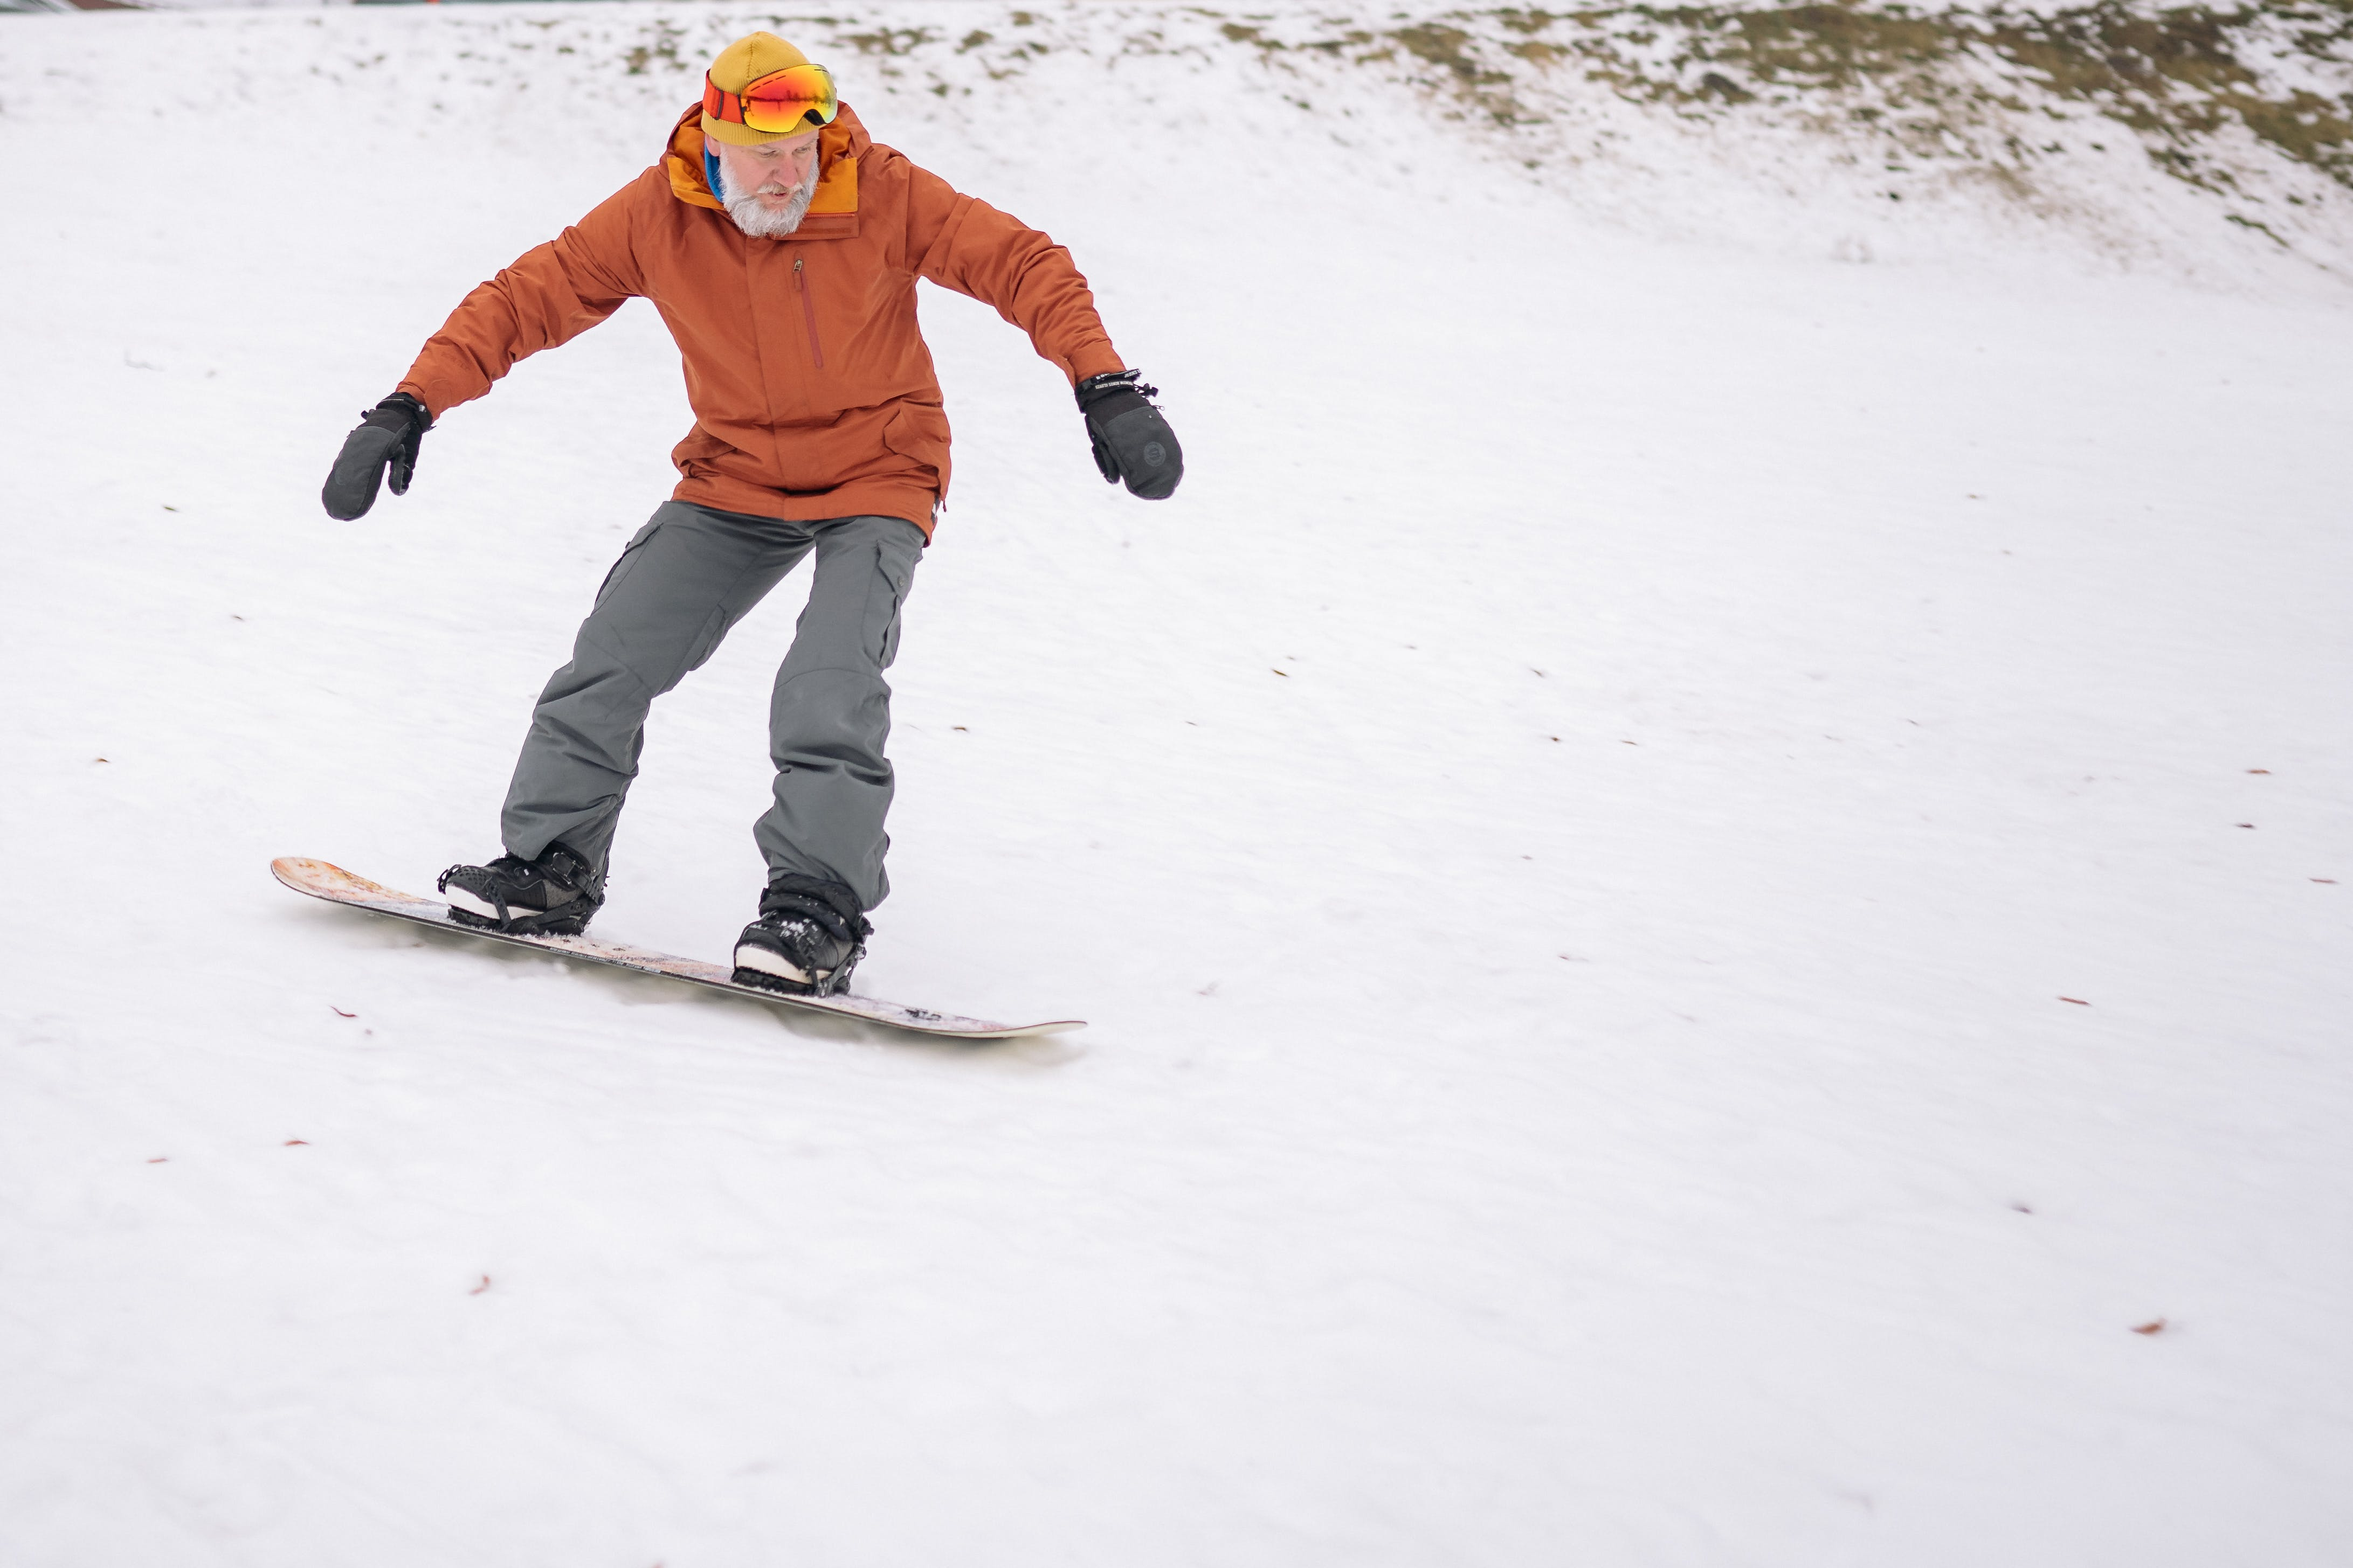
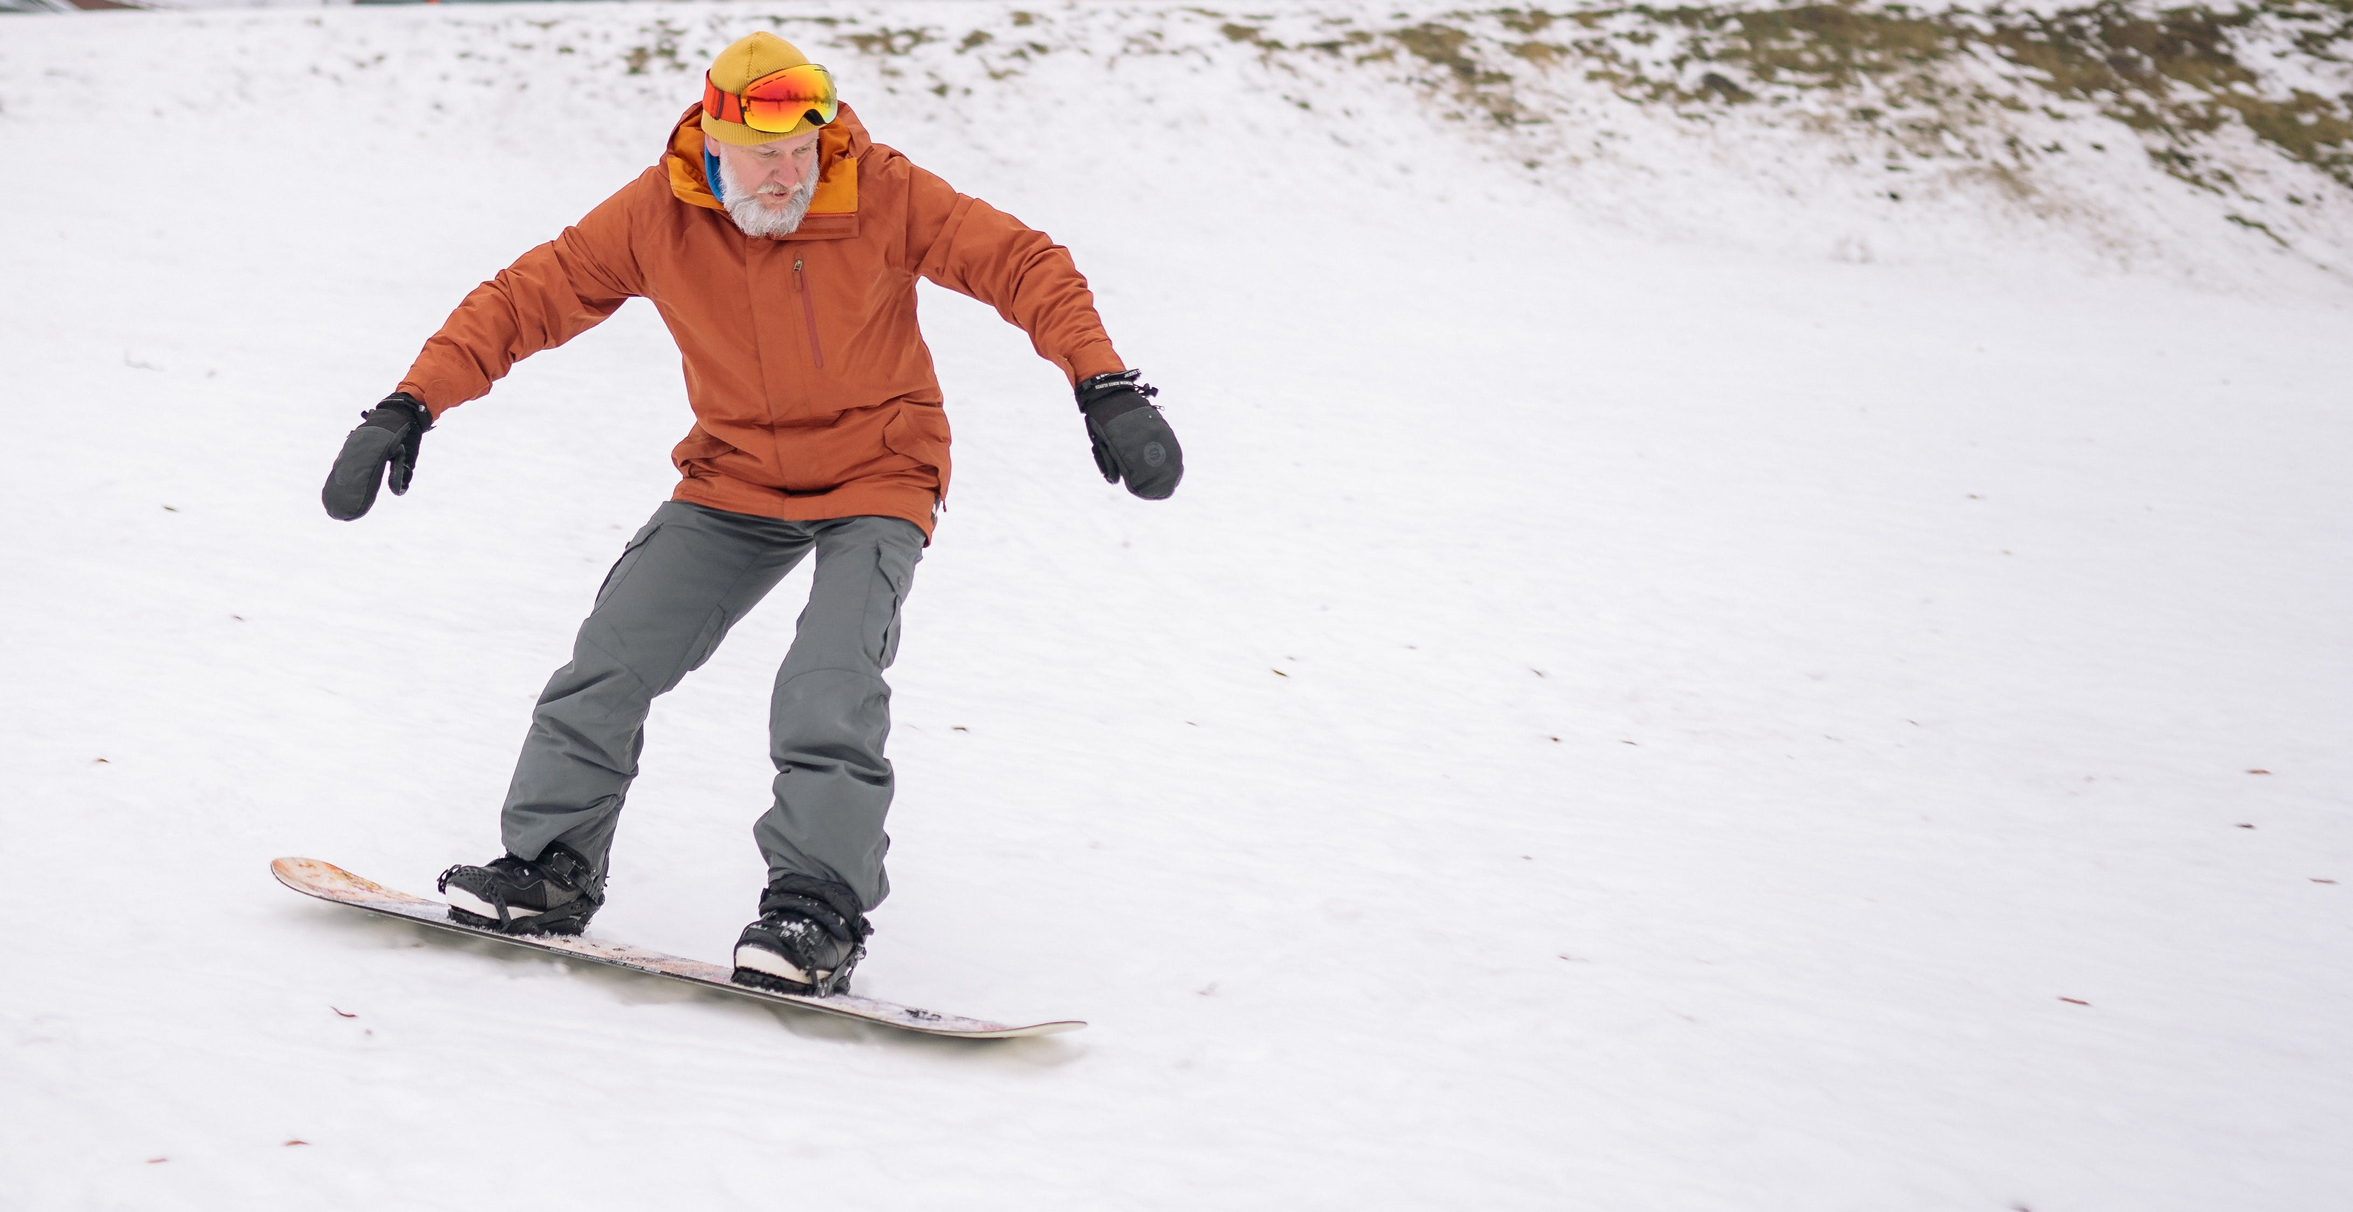
Instructors page done (no animations yet)

diff --git a/Instructors.html b/Instructors.html
@@ -1,0 +1,129 @@
+<!DOCTYPE html>
+<html lang="en">
+
+<head>
+    <meta charset="UTF-8">
+    <meta name="viewport" content="width=device-width, initial-scale=1.0">
+    <title>ChillWave&copy;</title>
+    <link href="https://api.fontshare.com/v2/css?f[]=satoshi@700,301,300,901,400&f[]=clash-display@700&display=swap"
+        rel="stylesheet">
+    <link rel="stylesheet" href="styles/style.css">
+</head>
+
+<body id="instructor-body">
+    <div class="navbar-instructor">
+        <div class="logo-instructor">
+            <a href="index.html">ChillWave Boarding</a>
+        </div>
+        <div class="nav-list-instructor">
+            <a href="services.html">Services</a>
+            <a href="Instructors.html">Instructors</a>
+            <a href="/">About</a>
+        </div>
+        <div class="contact-instructor">
+            <button><a href="/">Contact Us</a></button>
+        </div>
+    </div>
+    <div class="services-header-instructor">
+        <div class="services-left-header-instructor">
+            <h1>Instructors</h1>
+        </div>
+        <div class="services-right-header-instructor">
+            <p>I've got your interior design needs covered. Whether it's a single room or a full-scale makeover, let's
+                make your space
+                shine.</p>
+        </div>
+    </div>
+    <div class="services-header-pic">
+        <img src="assets/youngguy-crusie.jpg" alt="">
+    </div>
+    <div class="instructor-details-container">
+        <div class="instructor-details-bio">
+            <h4>Meet <span>Brandon</span>, a 28-year-old snowboarding master with over a decade of
+                freestyle and instructing
+                expertise. Get ready
+                for an unforgettable ride as Brandon shares his passion and skills, making every moment on the slopes a
+                thrilling
+                adventure.
+            </h4>
+        </div>
+    </div>
+    <div class="services-header-pic">
+        <img src="assets/oldguy-snowboarding.jpg" alt="">
+    </div>
+    <div class="instructor-details-container">
+        <div class="instructor-details-bio">
+            <h4>Introducting <span>Russell</span>, a legendary figure in the snowboarding world. At 55, this past
+                Olympic snowboarder brings
+                a wealth of
+                experience and expertise to the slopes. With a career steeped in triumphs and a passion for the sport,
+                Russell is not
+                just an instructor; he's a living legend ready to guide you through the exhilarating world of
+                snowboarding. Get ready to
+                carve your own path under the mentorship of a true snowboarding icon.
+            </h4>
+        </div>
+    </div>
+    <div class="services-header-pic">
+        <img src="assets/girl-gazing.jpg" alt="">
+    </div>
+    <div class="instructor-details-container">
+        <div class="instructor-details-bio">
+            <h4>Allow us to present <span>Emma</span>, a 22-year-old snowboarding sensation with a passion for freestyle
+                and teaching. With a decade
+                of experience
+                under her belt, Emma is your go-to instructor for an exciting ride on the slopes. Join her for a
+                thrilling adventure,
+                where she'll share her expertise and make every snowboarding moment unforgettable.
+            </h4>
+        </div>
+    </div>
+    <div class="footer-container-instructor">
+        <div class="footer-header-instructor">
+            <h1>ChillWave</h1>
+        </div>
+        <div class="footer-second-container-instructor">
+            <div class="footer-left-container-instructor">
+                <div class="sub-menu-left-instructor">
+                    <h4>Menu</h4>
+                    <a href="/">Services</a>
+                    <a href="/">Lessons</a>
+                    <a href="/">About</a>
+                    <a href="/">Contact</a>
+                </div>
+                <div class="sub-menu-right-instructor">
+                    <h4>Social</h4>
+                    <a href="/">Instagram</a>
+                    <a href="/">Facebook</a>
+                    <a href="/">LinkedIn</a>
+                </div>
+            </div>
+            <div class="footer-right-container-instructor">
+                <h4>Let's Stay Connected</h4>
+                <p>Reach out for a lesson or just to say hello!</p>
+                <form action="/">
+                    <div>
+                        <div>
+                            <label for="email">Email *</label>
+                        </div>
+                        <div>
+                            <input type="email" id="email" name="email">
+                        </div>
+                    </div>
+                    <div>
+                        <div>
+                            <label for="message">Message *</label>
+                        </div>
+                        <div>
+                            <textarea id="message" name="message" rows="3"></textarea>
+                        </div>
+                    </div>
+                    <div>
+                        <button type="submit">Send Away</button>
+                </form>
+            </div>
+        </div>
+    </div>
+</body>
+
+</html>

diff --git a/styles/style.css b/styles/style.css
@@ -675,3 +675,234 @@ form button {
 .card-1-right-menu p.open {
   display: block;
 }
+/* INSTRUCTORS PAGE*/
+
+#instructor-body {
+  background-color: #1e40af;
+}
+
+.navbar-instructor {
+  width: 100%;
+  height: 60px;
+  display: flex;
+  justify-content: space-between;
+  align-items: center;
+  font-size: 26px;
+  font-weight: 700;
+  color: #bfdbfe;
+}
+
+.navbar-instructor a {
+  text-decoration: none;
+}
+
+.contact-instructor button {
+  background: none;
+  border: #bfdbfe solid 2px;
+  border-radius: 35px;
+  cursor: pointer;
+  outline: none;
+  font-size: 26px;
+  color: inherit;
+  padding: 10px 20px;
+  font-weight: 700;
+}
+
+.logo-instructor {
+  margin-top: 20px;
+  margin-left: 35px;
+}
+
+.nav-list-instructor {
+  display: flex;
+  margin-top: 30px;
+  gap: 1.5em;
+}
+
+.contact-instructor {
+  margin-top: 20px;
+  margin-right: 35px;
+}
+
+.services-header-instructor {
+  display: flex;
+  width: 100%;
+  height: 40vh;
+  color: #bfdbfe;
+}
+
+.services-left-header-instructor {
+  width: 50%;
+  height: 100%;
+  display: flex;
+  align-items: center;
+  margin: 30px 40px;
+}
+
+.services-left-header-instructor h1 {
+  font-size: 130px;
+  font-weight: 800;
+}
+
+.services-right-header-instructor {
+  width: 50%;
+  height: 100%;
+  display: flex;
+  justify-content: center;
+  align-items: center;
+  margin: 45px 30px 0 20px;
+  line-height: 2em;
+}
+
+.services-right-header-instructor p {
+  font-size: 26px;
+  font-weight: 800;
+}
+
+.instructor-details-container {
+  width: 100%;
+}
+
+.instructor-details-bio {
+  margin: 40px 35px 90px 60px;
+  color: #bfdbfe;
+}
+
+.instructor-details-bio h4 span {
+  color: #fdfdfd;
+}
+
+.footer-container-instructor {
+  width: 93%;
+  height: 160vh;
+  display: flex;
+  flex-direction: column;
+  justify-content: space-evenly;
+  margin: auto;
+  background-color: #bfdbfe;
+  border-radius: 20px;
+  margin-top: 40px;
+  color: #1e3a8a;
+  margin-bottom: 35px;
+}
+
+.footer-header-instructor {
+  font-family: "Clash Display", sans-serif;
+  font-weight: 800;
+  text-align: center;
+}
+
+.footer-header-instructor h1 {
+  font-size: 240px;
+  margin-top: -15px;
+}
+
+.footer-second-container-instructor {
+  display: flex;
+  height: 100%;
+}
+
+.footer-left-container-instructor {
+  width: 50%;
+  height: 100%;
+  display: flex;
+}
+
+.sub-menu-left-instructor {
+  display: flex;
+  flex-direction: column;
+  margin-left: 60px;
+}
+
+.sub-menu-left-instructor h4 {
+  font-size: 46px;
+  font-weight: 700;
+}
+
+.sub-menu-left-instructor a {
+  color: #1e3a8a;
+  font-size: 26px;
+  text-decoration-thickness: 0.5px;
+  font-weight: 700;
+}
+
+.sub-menu-right-instructor {
+  display: flex;
+  flex-direction: column;
+  margin-left: 80px;
+}
+
+.sub-menu-right-instructor h4 {
+  font-size: 46px;
+  font-weight: 700;
+}
+
+.sub-menu-right-instructor a {
+  color: #1e3a8a;
+  font-size: 26px;
+  text-decoration-thickness: 0.5px;
+  font-weight: 700;
+}
+
+.footer-right-container-instructor {
+  width: 50%;
+  height: 100%;
+  display: flex;
+  flex-direction: column;
+  flex-wrap: wrap;
+  align-content: center;
+}
+
+.footer-right-container-instructor h4 {
+  font-size: 46px;
+  font-weight: 700;
+}
+
+.footer-right-container-instructor p {
+  font-size: 26px;
+  font-weight: 700;
+  line-height: 0.5em;
+}
+
+label {
+  font-size: 26px;
+  font-weight: 700;
+}
+
+input {
+  width: 90%;
+  height: 70px;
+  border-radius: 50px;
+  border: none;
+  outline: none;
+  margin-bottom: 20px;
+  padding-left: 10px;
+  font-size: 46px;
+  font-weight: 700;
+  font-family: "Satoshi", sans-serif;
+}
+
+textarea {
+  width: 90%;
+  height: 200px;
+  border: none;
+  outline: none;
+  margin-bottom: 20px;
+  padding-left: 10px;
+  font-size: 46px;
+  font-weight: 700;
+  font-family: "Satoshi", sans-serif;
+}
+
+form button {
+  background: none;
+  border: #1e3a8a solid 2px;
+  border-radius: 35px;
+  cursor: pointer;
+  outline: none;
+  font-size: 20px;
+  color: inherit;
+  margin-top: 15px;
+  padding: 12px 20px;
+  font-weight: 700;
+}

diff --git a/services.html b/services.html
@@ -13,11 +13,11 @@
 <body>
     <div class="navbar">
         <div class="logo">
-            <a href="/">ChillWave Boarding</a>
+            <a href="index.html">ChillWave Boarding</a>
         </div>
         <div class="nav-list">
-            <a href="/">Services</a>
-            <a href="/">Instructors</a>
+            <a href="services.html">Services</a>
+            <a href="Instructors.html">Instructors</a>
             <a href="/">About</a>
         </div>
         <div class="contact">

diff --git a/index.html b/index.html
@@ -14,11 +14,11 @@
 <body>
   <div class="navbar">
     <div class="logo">
-      <a href="/">ChillWave Boarding</a>
+      <a href="index.html">ChillWave Boarding</a>
     </div>
     <div class="nav-list">
       <a href="services.html">Services</a>
-      <a href="/">Instructors</a>
+      <a href="Instructors.html">Instructors</a>
       <a href="/">About</a>
     </div>
     <div class="contact">
